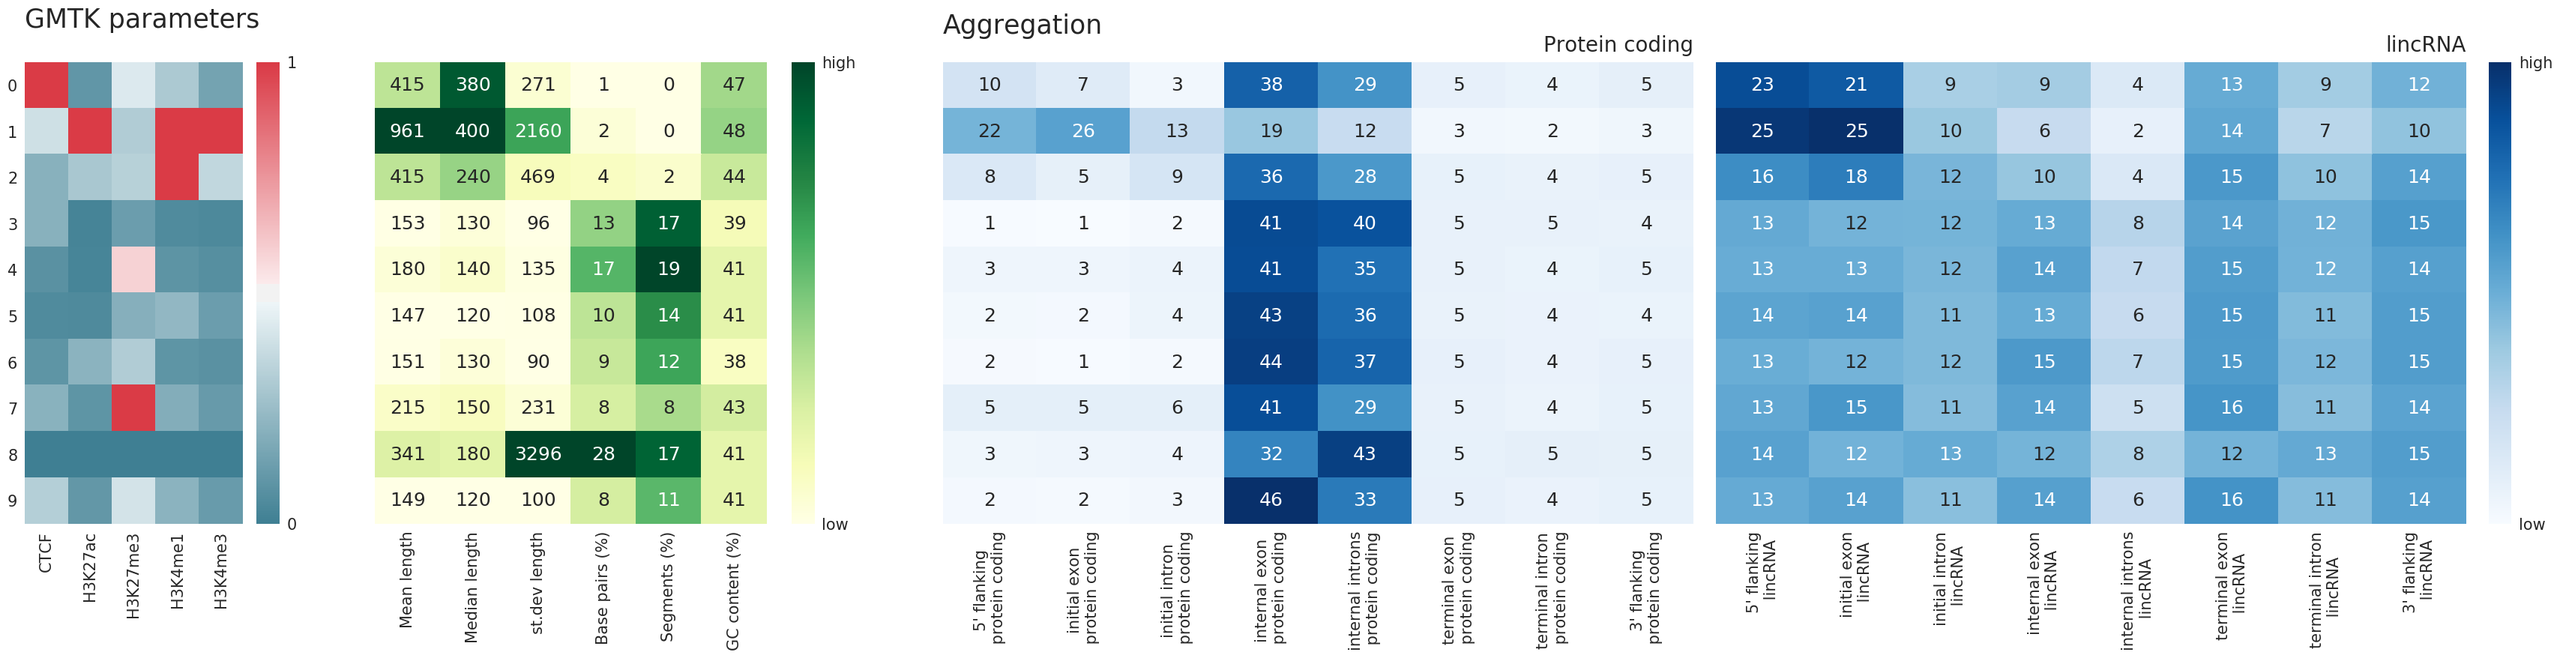
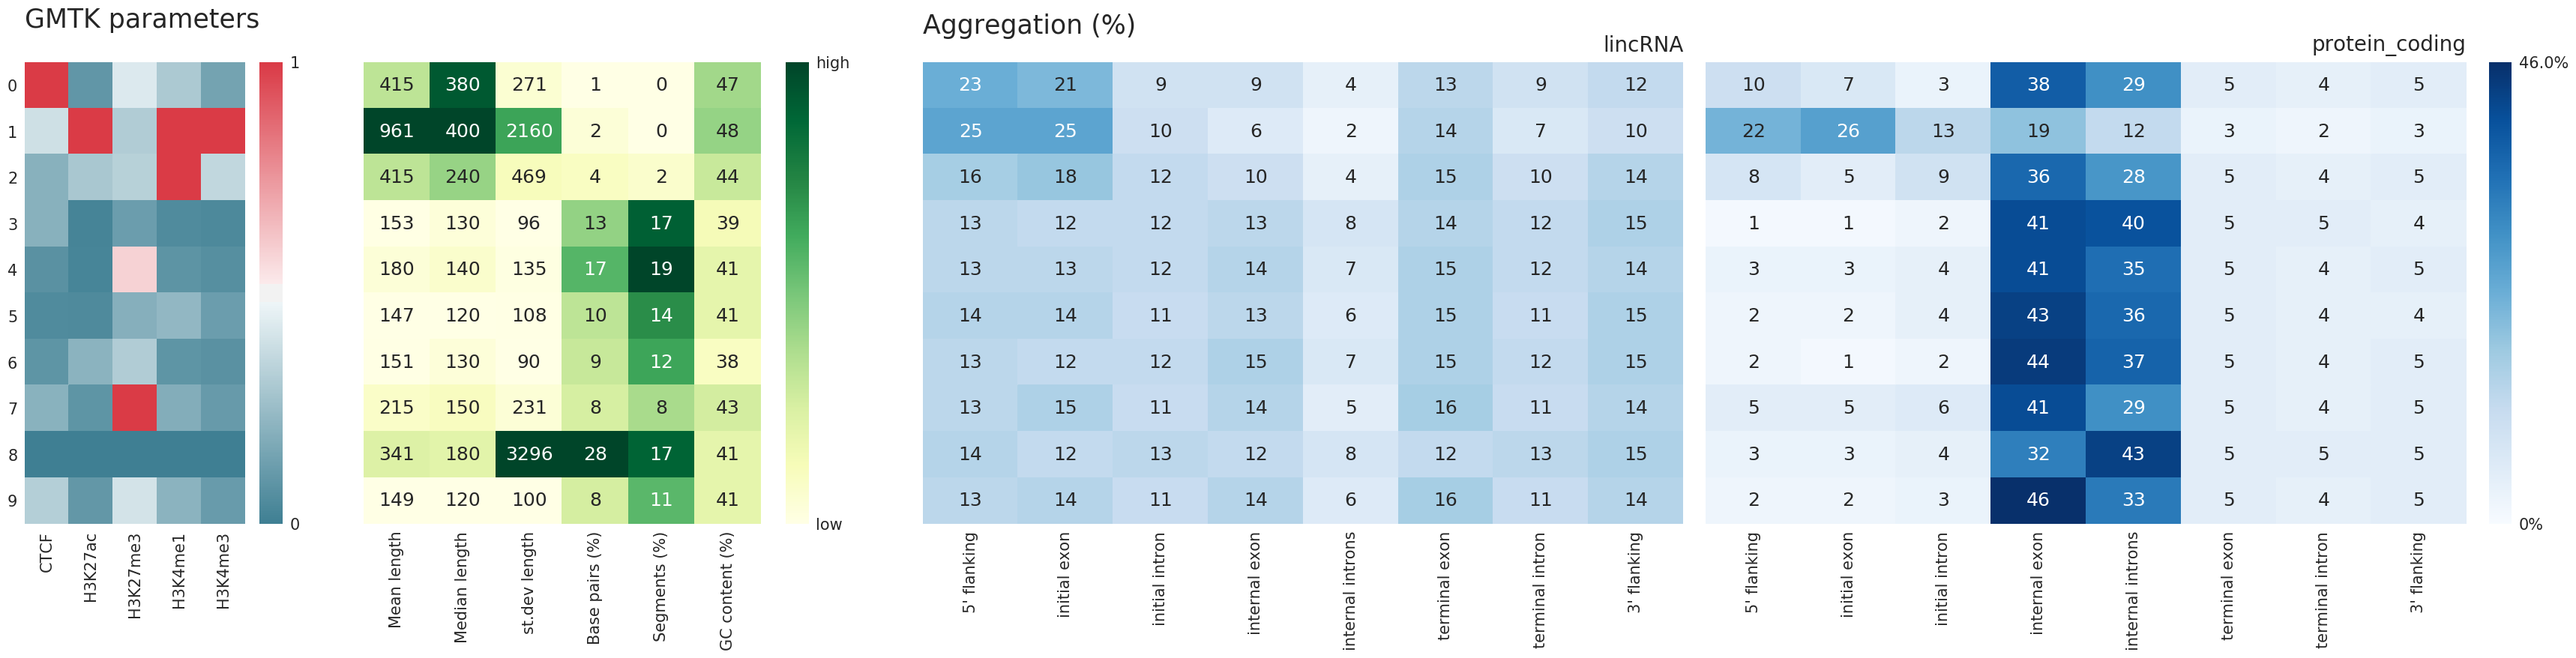
Modularization to aggregation visualization and small adjustments

diff --git a/segzoo/visualization.py b/segzoo/visualization.py
@@ -1,6 +1,7 @@
 import pandas as pd
 import seaborn as sns
 import matplotlib.pyplot as plt
+from collections import defaultdict
 from os import path
 from mpl_toolkits.axes_grid1 import make_axes_locatable
 
@@ -47,7 +48,7 @@ def length_distribution():
     return res_len_hm, res_len_ann
 
 
-# Prepare the main matrix for the heatmap and its annotation, both in DataFrames
+# Prepare the mix matrix for the heatmap and its annotation, both in DataFrames
 def mix_data_matrix():
     # Joining both matrix to create final heatmap and annotation
     res_nuc_hm, res_nuc_ann = nucleotide()
@@ -59,67 +60,101 @@ def mix_data_matrix():
     return res_hm, res_ann
 
 
-# Prepare the aggregation results for 'protein_coding' and 'lincRNA' and join them in a DataFrame
-def aggregation():
-    # TODO don't join
-    pc_file = next(x for x in snakemake.input.aggs if path.basename(path.dirname(x)) == 'protein_coding')
-    lrna_file = next(x for x in snakemake.input.aggs if path.basename(path.dirname(x)) == 'lincRNA')
-
+# Prepare the aggregation results in a dictionary of DataFrames by gene_biotype and return the maximum value
+def aggregation(biotypes):
     # Rename columns
-    column_names = ["5' flanking", "initial exon", "initial intron", "internal exon", "internal introns", \
+    COLUMN_NAMES = ["5' flanking", "initial exon", "initial intron", "internal exon", "internal introns", \
                     "terminal exon", "terminal intron", "3' flanking"]
 
-    res_agg_pc = pd.read_table(pc_file, index_col=0)
-    res_agg_pc.columns = column_names
+    df_dict = defaultdict()
+    max_value = 0
+    for biotype in biotypes:
+        filename = next(x for x in snakemake.input.aggs if path.basename(path.dirname(x)) == biotype)
+        df_dict[biotype] = pd.read_table(filename, index_col=0)
+        df_dict[biotype].columns = COLUMN_NAMES
 
-    res_agg_linc = pd.read_table(lrna_file, index_col=0)
-    res_agg_linc.columns = column_names
+        # Turn the results into a percentage of the labels's aggregation in a gene biotype
+        for row in df_dict[biotype].index:
+            df_dict[biotype].iloc[row] = (df_dict[biotype].iloc[row] / df_dict[biotype].iloc[row].sum()).round(2) * 100
+        # Update max value
+        max_value = max(df_dict[biotype].max().max(), max_value)
 
-    res_agg = res_agg_pc.join(res_agg_linc, lsuffix='\n protein coding', rsuffix='\n lincRNA')
-
-    # Turn the results into a percentage of the labels's aggregation in a gene biotype
-    for row in res_agg.index:
-        res_agg.iloc[row, :8] = res_agg.iloc[row, :8] / res_agg.iloc[row, :8].sum()
-        res_agg.iloc[row, 8:] = res_agg.iloc[row, 8:] / res_agg.iloc[row, 8:].sum()
-
-    res_agg_ann = res_agg.copy().round(2) * 100  # Turn into percentage
-    # For the heatmap, map the maximum value of each gene_biotype to 1
-    res_agg.iloc[:, :8] = res_agg.iloc[:, :8] / res_agg.iloc[:, :8].max().max()
-    res_agg.iloc[:, 8:] = res_agg.iloc[:, 8:] / res_agg.iloc[:, 8:].max().max()
-
-    return res_agg, res_agg_ann
+    return df_dict, max_value
 
 
-sns.set(font_scale=1.5)
+# The biotypes wanted for the visualization, in order of appearance
+BIOTYPES = [
+    #     '3prime_overlapping_ncrna',
+    #     'antisense',
+    #     'IG_C_gene',
+    #     'IG_C_pseudogene',
+    #     'IG_D_gene',
+    #     'IG_J_gene',
+    #     'IG_J_pseudogene',
+    #     'IG_V_gene',
+    #     'IG_V_pseudogene',
+    #     'known_ncrna',
+    'lincRNA',
+    #     'miRNA',
+    #     'misc_RNA',
+    #     'Mt_rRNA',
+    #     'Mt_tRNA',
+    #     'non_coding',
+    #     'polymorphic_pseudogene',
+    #     'processed_pseudogene',
+    #     'processed_transcript',
+    'protein_coding',
+    #     'pseudogene',
+    #     'rRNA',
+    #     'sense_intronic',
+    #     'sense_overlapping',
+    #     'snoRNA',
+    #     'snRNA',
+    #     'TEC',
+    #     'transcribed_processed_pseudogene',
+    #     'transcribed_unitary_pseudogene',
+    #     'transcribed_unprocessed_pseudogene',
+    #     'translated_processed_pseudogene',
+    #     'translated_unprocessed_pseudogene',
+    #     'TR_C_gene',
+    #     'TR_D_gene',
+    #     'TR_J_gene',
+    #     'TR_J_pseudogene',
+    #     'TR_V_gene',
+    #     'TR_V_pseudogene',
+    #     'unitary_pseudogene',
+    #     'unprocessed_pseudogene',
+]
 
-# Color maps for the visualization
-cmap_gmtk = sns.diverging_palette(220, 10, as_cmap=True)
-# cmap_mix = sns.diverging_palette(176, 360, as_cmap=True)
-# cmap_agg = sns.diverging_palette(46, 360, as_cmap=True)
-# cmap_mix = sns.light_palette('lightblue', as_cmap=True)
-# cmap_agg = sns.light_palette('lightgreen', as_cmap=True)
-
-if snakemake.config['parameters']:
-    res_gmtk = gmtk_parameters()
-else:
-    res_gmtk = pd.DataFrame()
-res_mix_hm, res_mix_ann = mix_data_matrix()
-res_agg_hm, res_agg_ann = aggregation()
-
+NUM_COMPONENTS = 8
 GMTK_FACTOR = 1
 MIX_FACTOR = 1.5
 AGG_FACTOR = 1.8
 ROW_CORRECTOR = 0.8
 
+sns.set(font_scale=1.5)
+
+# Color maps for the visualization
+cmap_gmtk = sns.diverging_palette(220, 10, as_cmap=True)
+
+# Call the functions that obtain the results in DataFrames
+if snakemake.config['parameters']:
+    res_gmtk = gmtk_parameters()
+else:
+    res_gmtk = pd.DataFrame()
+res_mix_hm, res_mix_ann = mix_data_matrix()
+res_agg_dict, agg_vmax = aggregation(BIOTYPES)
+
 n_rows = res_mix_hm.shape[0] * ROW_CORRECTOR
-n_columns = res_gmtk.shape[1] * GMTK_FACTOR + res_mix_hm.shape[1] * MIX_FACTOR + res_agg_hm.shape[1] * AGG_FACTOR
+n_columns = res_gmtk.shape[1] * GMTK_FACTOR + res_mix_hm.shape[1] * MIX_FACTOR + len(
+    res_agg_dict) * NUM_COMPONENTS * AGG_FACTOR
 
 # Create grid and plot the results in two or three separate plots
 f, (ax_gmtk, ax_mix, ax_agg) = \
     plt.subplots(1, 3, figsize=(n_columns, n_rows), sharey=True, \
-                 gridspec_kw={"wspace": 0.1,
+                 gridspec_kw={"wspace": 0.08,
                               "width_ratios": [res_gmtk.shape[1] * GMTK_FACTOR, res_mix_hm.shape[1] * MIX_FACTOR,
-                                               res_agg_hm.shape[1] * AGG_FACTOR]})
+                                               len(res_agg_dict) * NUM_COMPONENTS * AGG_FACTOR]})
 
 # GMTK parameters
 if snakemake.config['parameters']:
@@ -141,23 +176,31 @@ cbar_mix.set_ticklabels(['low', 'high'])
 ax_mix.set_ylabel('')
 
 # Aggregation
-divider = make_axes_locatable(ax_agg)
-ax_agg2 = divider.append_axes("right", size="100%", pad=0.3)
+ax_agg_list = [None] * len(BIOTYPES)  # Structure to store the divided axis
+ax_agg_list[0] = ax_agg
+
+divider = make_axes_locatable(ax_agg_list[0])
+title_args = dict(fontsize=20, position=(1.0, 1.0), ha='right', va='bottom')
+
+# Divide axes, plot heatmap and edit axis configuration for each biotype
+for i in range(1, len(res_agg_dict)):
+    ax_agg_list[i] = divider.append_axes("right", size="100%", pad=0.3)
+    sns.heatmap(res_agg_dict[BIOTYPES[i]], annot=True, cbar=False, vmin=0, vmax=agg_vmax, cmap='Blues',
+                ax=ax_agg_list[i], fmt='.5g')
+    ax_agg_list[i].set_title(BIOTYPES[i], **title_args)
+    ax_agg_list[i].set_yticklabels([])
+    ax_agg_list[i].set_xticklabels(ax_agg_list[i].get_xticklabels(), rotation=90)
 ax_agg_cbar = divider.append_axes("right", size="3%", pad=0.3)
 
-sns.heatmap(res_agg_hm.iloc[:, :8], annot=res_agg_ann.iloc[:, :8], cbar=False, cmap='Blues', ax=ax_agg, fmt='.5g')
-g_agg = sns.heatmap(res_agg_hm.iloc[:, 8:], annot=res_agg_ann.iloc[:, 8:], cbar=True, vmin=0, vmax=1,
-                    cbar_ax=ax_agg_cbar, cmap='Blues', ax=ax_agg2, fmt='.5g')
-
+g_agg = sns.heatmap(res_agg_dict[BIOTYPES[0]], annot=True, cbar=True, vmin=0, vmax=agg_vmax, cbar_ax=ax_agg_cbar,
+                    cmap='Blues', ax=ax_agg_list[0], fmt='.5g')
+ax_agg_list[0].text(0, -0.5, "Aggregation (%)", fontsize=25, ha='left', va='bottom')
+ax_agg_list[0].set_title(BIOTYPES[0], **title_args)
+ax_agg_list[i].set_xticklabels(ax_agg_list[i].get_xticklabels(), rotation=90)
+# do not set yticklabels to [], because that will affect GMTK parameters, as it's set to yshare
+# Edit the colorbar created by the first biotype
 cbar_agg = g_agg.collections[0].colorbar
-cbar_agg.set_ticks([0, 1])
-cbar_agg.set_ticklabels(['low', 'high'])
-
-ax_agg.text(0, -0.5, "Aggregation", fontsize=25, ha='left', va='bottom')
-
-title_args = dict(fontsize=20, position=(1.0, 1.0), ha='right', va='bottom')
-ax_agg.set_title('Protein coding', **title_args)
-ax_agg2.set_title('lincRNA', **title_args)
-ax_agg2.set_yticks([])
+cbar_agg.set_ticks([0, agg_vmax])
+cbar_agg.set_ticklabels(['0%', '{0}%'.format(agg_vmax)])
 
 f.savefig(snakemake.output.outfile, bbox_inches='tight')
